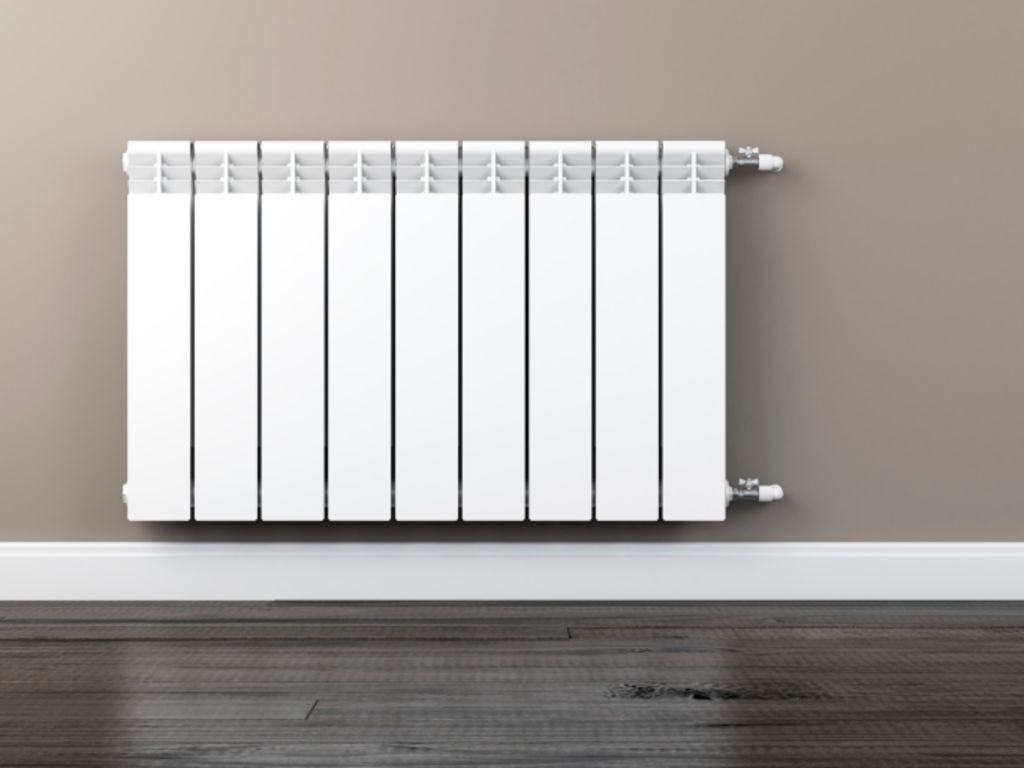
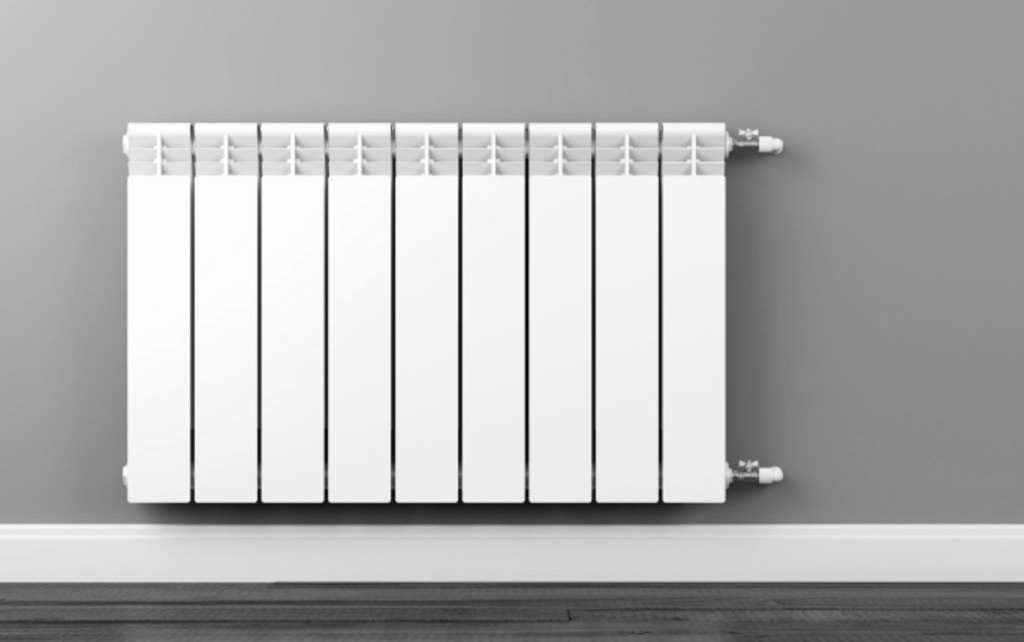
Changed the background images and made them all gray scaled- this way they flow better and make the overall layout of the page look better. I also fixed the spacing of the google map.

diff --git a/index.css b/index.css
@@ -9,7 +9,7 @@ body {
 
 #home .parallax {
     /* The image used */
-    background-image: url("images/services.jpeg");
+    background-image: url("images/begeleiding_card.jpg");
     /* Set a specific height */
     min-height: 200px;
     /* Create the parallax scrolling effect */
@@ -29,7 +29,7 @@ body {
 
 #services .parallax {
     /* The image used */
-    background-image: url("images/services.jpeg");
+    background-image: url("images/begeleiding_card.jpg");
     /* Set a specific height */
     min-height: 200px;
     /* Create the parallax scrolling effect */
@@ -203,7 +203,7 @@ ul.slides input {
 .carousel-controls label {
     display: none;
     position: absolute;
-    top: 50%;
+    top:;
     padding: 0 20px;
     opacity: 0;
     transition: opacity .2s;
@@ -275,7 +275,7 @@ body {
 
 #projects .parallax {
     /* The image used */
-    background-image: url("images/projecten.jpg");
+    background-image: url("images/sanitair.jpg");
     /* Set a specific height */
     min-height: 200px;
     /* Create the parallax scrolling effect */
@@ -296,7 +296,7 @@ body {
 
 #contact .parallax {
     /* The image used */
-    background-image: url("images/pipes.jpeg");
+    background-image: url("images/vloer.jpg");
     /* Set a specific height */
     min-height: 200px;
     /* Create the parallax scrolling effect */
@@ -340,6 +340,7 @@ body {
 
 .map {
     grid-column: 1 / -1;
+    margin-top: 2%;
 }
 
 /*Gray filter on map*/
